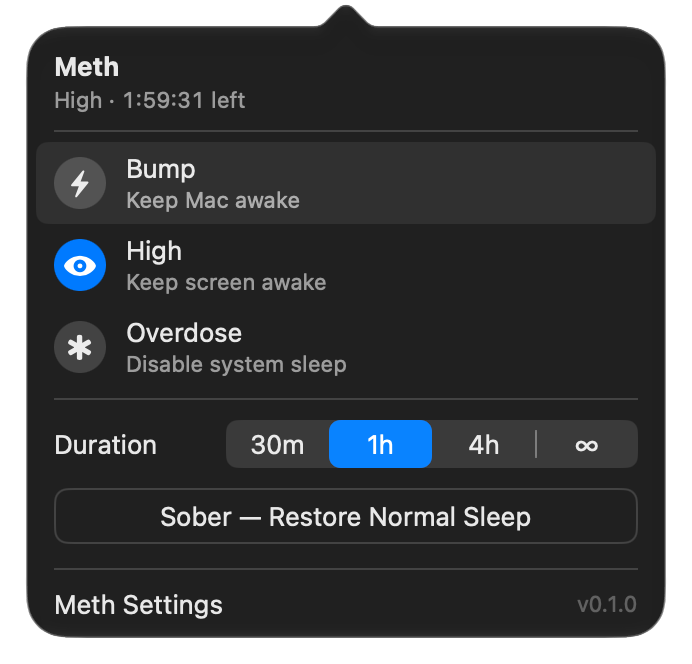
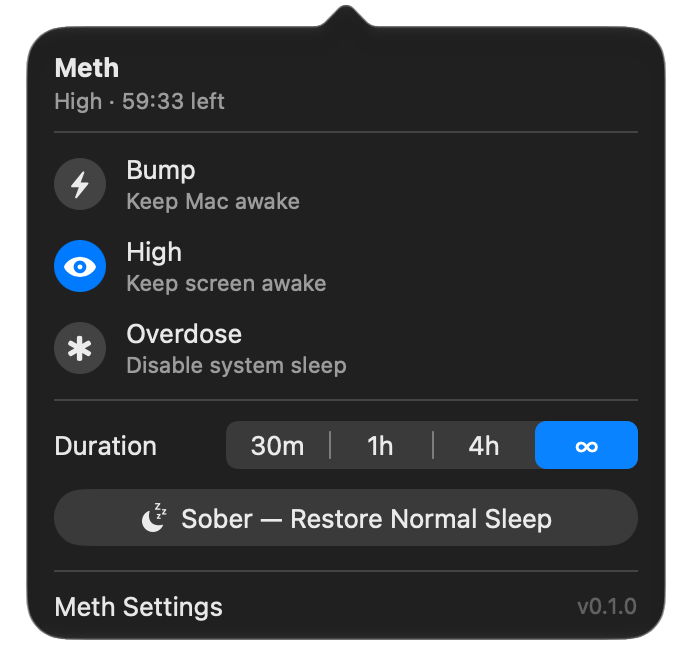
Popover: click the active mode again to turn it off; native Sober button
- Selecting the mode that is already on returns to Sober (toggle), with a
  "Click again to turn off" tooltip and VoiceOver hint.
- Sober is now a standard bordered push button. While already sober it is
  disabled and reads "Sleeping Normally", so it only looks pressable when
  pressing it would change something.

diff --git a/Meth/UI/MenuBarView.swift b/Meth/UI/MenuBarView.swift
@@ -231,7 +231,9 @@ struct ModeRow: View {
         .keyboardShortcut(shortcut, modifiers: [])
         .focusEffectDisabled()
         .animation(.easeInOut(duration: 0.15), value: isSelected)
+        .help(isSelected ? String(localized: "Click again to turn off") : "")
         .accessibilityLabel(Text(verbatim: "\(title), \(subtitle)"))
+        .accessibilityHint(isSelected ? Text("Click again to turn off") : Text(verbatim: ""))
         .accessibilityAddTraits(isSelected ? .isSelected : [])
         .accessibilityIdentifier("mode.\(mode.rawValue)")
     }
@@ -274,7 +276,8 @@ struct DurationSelector: View {
 
 // MARK: - Sober
 
-/// Full-width outlined button, deliberately quieter than the mode rows.
+/// A standard macOS push button, full width. Disabled while already Sober,
+/// so it only looks pressable when pressing it would change something.
 struct SoberButton: View {
     let isSober: Bool
     let isPending: Bool
@@ -282,33 +285,31 @@ struct SoberButton: View {
 
     var body: some View {
         Button(action: action) {
-            HStack(spacing: 5) {
-                Text("Sober — Restore Normal Sleep")
+            HStack(spacing: 6) {
                 if isPending {
-                    ProgressView().controlSize(.mini)
-                } else if isSober {
-                    Image(systemName: "checkmark")
-                        .font(.system(size: 10, weight: .semibold))
-                        .foregroundStyle(.secondary)
+                    ProgressView().controlSize(.small)
+                } else {
+                    Image(systemName: isSober ? "checkmark" : "moon.zzz.fill")
+                }
+                if isSober {
+                    Text("Sleeping Normally")
+                } else {
+                    Text("Sober — Restore Normal Sleep")
                 }
             }
-            .font(.system(size: 13))
-            .foregroundStyle(isSober ? .secondary : .primary)
-            .frame(maxWidth: .infinity, minHeight: 28)
-            .overlay(
-                RoundedRectangle(cornerRadius: 7, style: .continuous)
-                    .strokeBorder(.separator, lineWidth: 1)
-            )
-            .contentShape(RoundedRectangle(cornerRadius: 7, style: .continuous))
-            .modifier(RowHighlight())
+            .frame(maxWidth: .infinity)
         }
-        .buttonStyle(.plain)
+        .buttonStyle(.bordered)
+        .controlSize(.large)
+        .disabled(isSober || isPending)
         .keyboardShortcut("0", modifiers: [])
         .focusEffectDisabled()
         .accessibilityAddTraits(isSober ? .isSelected : [])
         .accessibilityIdentifier("mode.sober")
     }
 }
+
+// MARK: - Notices
 
 struct NoticeView: View {
     let text: String

diff --git a/MethUITests/PopoverUITests.swift b/MethUITests/PopoverUITests.swift
@@ -16,7 +16,7 @@ final class PopoverUITests: XCTestCase {
     override func tearDownWithError() throws {
         // Leave the machine sober.
         let sober = app.buttons["mode.sober"]
-        if sober.exists { sober.click() }
+        if sober.exists, sober.isEnabled { sober.click() }
         app.terminate()
     }
 
@@ -42,6 +42,20 @@ final class PopoverUITests: XCTestCase {
         expectation(for: selected, evaluatedWith: sober)
         waitForExpectations(timeout: 10)
         XCTAssertFalse(bump.isSelected)
+    }
+
+    func testClickingActiveModeAgainReturnsToSober() throws {
+        let high = app.buttons["mode.high"]
+        XCTAssertTrue(high.waitForExistence(timeout: 10))
+        high.click()
+        let selected = NSPredicate(format: "isSelected == true")
+        expectation(for: selected, evaluatedWith: high)
+        waitForExpectations(timeout: 10)
+
+        high.click()
+        expectation(for: selected, evaluatedWith: app.buttons["mode.sober"])
+        waitForExpectations(timeout: 10)
+        XCTAssertFalse(high.isSelected)
     }
 
     func testKeyboardShortcutsSelectModes() throws {

diff --git a/Meth/App/AppController.swift b/Meth/App/AppController.swift
@@ -140,6 +140,11 @@ final class AppController: NSObject, NSApplicationDelegate, NSPopoverDelegate, M
     // MARK: MenuBarActions
 
     func select(_ mode: SleepMode) {
+        // Clicking the mode that is already on turns it off, like a toggle.
+        if model.mode == mode, model.pendingMode == nil {
+            soberUp()
+            return
+        }
         Task {
             if mode == .overdose {
                 await requestOverdose()

diff --git a/Scripts/i18n/translations.py b/Scripts/i18n/translations.py
@@ -97,6 +97,8 @@ T = {
   "睡眠已被其他程序禁用，Meth 未作更改。"),
 "Sober": ("Sober", "Sober"),
 "Sober — Restore Normal Sleep": ("Sober — กลับสู่การหลับปกติ", "Sober — 恢复正常睡眠"),
+"Sleeping Normally": ("หลับตามปกติ", "正常睡眠中"),
+"Click again to turn off": ("คลิกอีกครั้งเพื่อปิด", "再次点击以关闭"),
 "Something went wrong. Please try again.": ("เกิดข้อผิดพลาด กรุณาลองอีกครั้ง", "出了点问题，请重试。"),
 "Start Overdose": ("เริ่ม Overdose", "启动 Overdose"),
 "Start Overdose?": ("เริ่ม Overdose หรือไม่", "启动 Overdose？"),

diff --git a/README.md b/README.md
@@ -12,7 +12,7 @@ Sleep control for humans and AI agents.</p>
 </p>
 
 <p align="center">
-  <img src="docs/assets/popover-dark.png" width="340" alt="Meth popover, High mode active with 1:59:31 left">
+  <img src="docs/assets/popover-dark.png" width="340" alt="Meth popover, High mode active with 59:33 left">
 </p>
 
 > **Parody notice.** Meth is a joke on drug-themed sleep-prevention apps. The names
